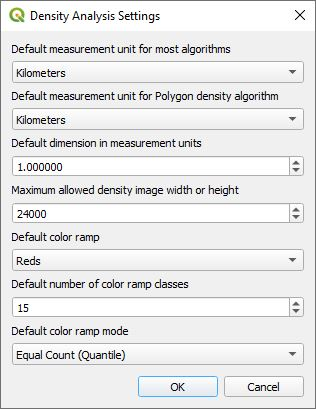
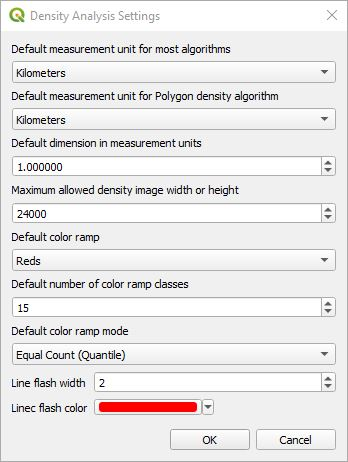
Add ability to set maker line color and width

Changed region(s): [[0.0, 0.0, 1.0, 1.0], [0.9114, 0.0, 0.9684, 0.0587]]

diff --git a/settings.py b/settings.py
@@ -3,6 +3,7 @@ from qgis.PyQt import uic
 from qgis.core import Qgis, QgsStyle, QgsUnitTypes
 from qgis.PyQt.QtWidgets import QDialog
 from qgis.PyQt.QtCore import QSettings
+from qgis.PyQt.QtGui import QColor
 
 POLYGON_UNIT_LABELS = ["Kilometers", "Meters", "Miles", 'Yards', "Feet", "Nautical Miles", "Degrees", "Dimensions in pixels"]
 UNIT_LABELS = ["Kilometers", "Meters", "Miles", 'Yards', "Feet", "Nautical Miles", "Degrees"]
@@ -83,6 +84,12 @@ class Settings():
             self.max_image_size = int(qset.value('/DensityAnalysis/MaxImageSize', 20000))
         except Exception:
             self.max_image_size = 20000
+        try:
+            self.line_flash_width = int(qset.value('/DensityAnalysis/LineFlashWidth', 2))
+        except Exception:
+            self.line_flash_width = 2
+        color = qset.value('/DensityAnalysis/LineFlashColor', '#ffff00')
+        self.line_flash_color = QColor(color)
 
     def setDefaultColorRamp(self, color_ramp, num_ramp_classes, color_ramp_mode):
         # print('color_ramp: {}'.format(color_ramp))
@@ -98,16 +105,20 @@ class Settings():
         qset.setValue('/DensityAnalysis/NumRampClasses', num_ramp_classes)
         qset.setValue('/DensityAnalysis/ColorRampMode', color_ramp_mode)
     
-    def setDefaults(self, measurement_unit, poly_measurement_unit, default_dimension, max_image_size):
+    def setDefaults(self, measurement_unit, poly_measurement_unit, default_dimension, max_image_size, line_flash_width, line_flash_color):
         self.measurement_unit = measurement_unit
         self.poly_measurement_unit = poly_measurement_unit
         self.default_dimension = default_dimension
         self.max_image_size = max_image_size
+        self.line_flash_width = line_flash_width
+        self.line_flash_color = line_flash_color
         qset = QSettings()
         qset.setValue('/DensityAnalysis/MeasuementUnit', measurement_unit)
         qset.setValue('/DensityAnalysis/PolyMeasuementUnit', poly_measurement_unit)
         qset.setValue('/DensityAnalysis/DefaultDimension', default_dimension)
         qset.setValue('/DensityAnalysis/MaxImageSize', max_image_size)
+        qset.setValue('/DensityAnalysis/LineFlashWidth', line_flash_width)
+        qset.setValue('/DensityAnalysis/LineFlashColor', line_flash_color.name())
         
     
     def defaultColorRamp(self):
@@ -150,10 +161,13 @@ class SettingsWidget(QDialog, FORM_CLASS):
         self.polyUnitsComboBox.setCurrentIndex(settings.poly_measurement_unit)
         self.defaultDimensionSpinBox.setValue(settings.default_dimension)
         self.maxImageSizeSpinBox.setValue(settings.max_image_size)
+        self.lineFlashWidthSpinBox.setValue(settings.line_flash_width)
+        self.lineFlashColorButton.setColor(settings.line_flash_color)
 
     def accept(self):
         selected_ramp = self.colorRampComboBox.currentText()
         settings.setDefaultColorRamp(selected_ramp, self.rampClassesSpinBox.value(), self.colorRampModeComboBox.currentIndex())
         settings.setDefaults(self.unitsComboBox.currentIndex(), self.polyUnitsComboBox.currentIndex(),
-            self.defaultDimensionSpinBox.value(), self.maxImageSizeSpinBox.value())
+            self.defaultDimensionSpinBox.value(), self.maxImageSizeSpinBox.value(), self.lineFlashWidthSpinBox.value(),
+            self.lineFlashColorButton.color())
         self.close()

diff --git a/heatmap.py b/heatmap.py
@@ -7,6 +7,7 @@ from qgis.PyQt.QtWidgets import QDockWidget, QAbstractItemView, QTableWidget, QT
 from qgis.core import Qgis, QgsMapLayerProxyModel, QgsFieldProxyModel, QgsWkbTypes, QgsFeatureRequest, QgsCoordinateTransform, QgsProject, QgsRectangle, QgsPoint, QgsPointXY, QgsGeometry
 from qgis.gui import QgsRubberBand
 from qgis.utils import isPluginLoaded, plugins
+from .settings import settings
 import traceback
 
 MAX_LIST_SIZE = 5000
@@ -44,7 +45,8 @@ class HeatmapAnalysis(QDockWidget, FORM_CLASS):
         self.resultsTable.itemSelectionChanged.connect(self.select_feature)
         # self.resultsTable.itemClicked.connect(self.select_feature)
         self.rb = QgsRubberBand(self.canvas, QgsWkbTypes.LineGeometry)
-        self.rb.setColor(Qt.yellow)
+        self.rb.setColor(settings.line_flash_color)
+        self.rb.setWidth(settings.line_flash_width)
 
     def showEvent(self, e):
         self.layerChanged()
@@ -182,6 +184,8 @@ class HeatmapAnalysis(QDockWidget, FORM_CLASS):
         vertLine = QgsGeometry.fromPolyline([topPt, bottomPt])
 
         self.rb.reset(QgsWkbTypes.LineGeometry)
+        self.rb.setColor(settings.line_flash_color)
+        self.rb.setWidth(settings.line_flash_width)
         self.rb.addGeometry(horizLine, None)
         self.rb.addGeometry(vertLine, None)
 

diff --git a/readme.md b/readme.md
@@ -343,5 +343,5 @@ The settings are found in the QGIS menu under ***Plugins->Density Analysis->Sett
 * ***Default color ramp*** - This setting will be used by the algorithms for the default color ramp.
 * ***Default number of color ramp classes***  - This is the default number of color ramp colors or classes that are used by the algorithms.
 * ***Default color ramp mode*** - This is the default color ramp mode used by the vector density maps for styling the output layer. The options are Equal Count (Quantile), Equal Interval, Logarithmic scale ,Natural Breaks (Jenks), Pretty Breaks, or Standard Deviation.
-
-
+* ***Line flash width*** - This is the width of the line flash marker lines used by the density hotspot explorer.
+* ***Line flash color*** - This is the color of the line flash marker lines used by the density hotspot explorer.
